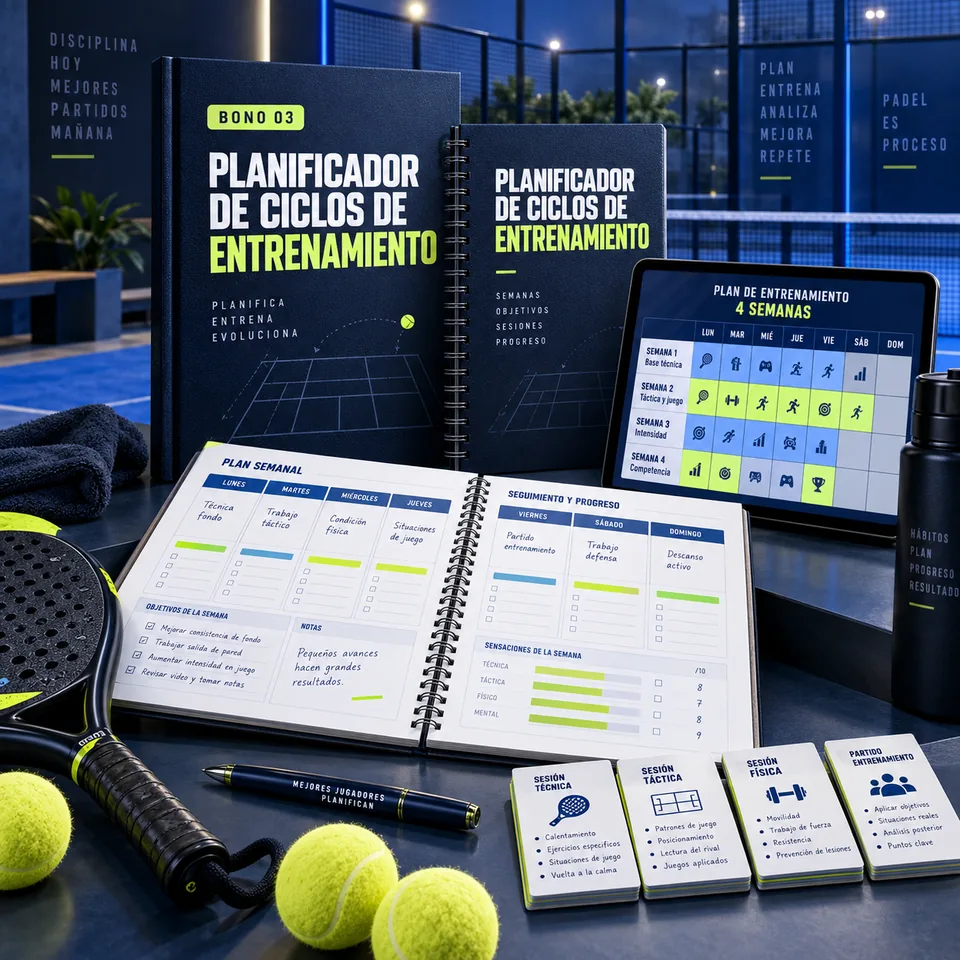
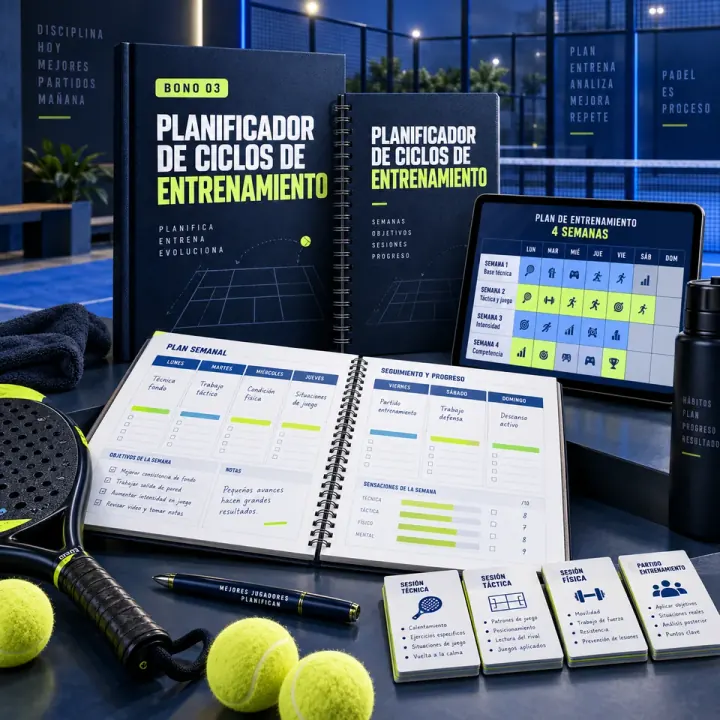
Optimize Padel page performance and remove unused assets
Recompress and resize the 11 images actually used by the Padel
landing page (47% smaller, 1.34MB -> 714KB total) and sync their
width/height attributes to the new dimensions. Remove ~65 unused
image files left over from other pages (Jiu-Jitsu, testimonials,
video library, PNG duplicates of the webp assets already in use),
cutting src/assets down to only what index.tsx and __root.tsx
import.

diff --git a/src/routes/index.tsx b/src/routes/index.tsx
@@ -139,8 +139,8 @@ function Hero() {
             <img
               src={heroPadel}
               alt="Biblioteca completa de sesiones de entrenamiento de pádel en formato digital"
-              width={1448}
-              height={1086}
+              width={1440}
+              height={1080}
               fetchPriority="high"
               decoding="async"
               className="h-auto w-full"
@@ -176,43 +176,43 @@ const SESSIONS = [
     category: "Sesión 024 · Iniciación",
     title: "Control y profundidad desde el fondo",
     image: session024,
-    width: 960,
-    height: 640,
+    width: 800,
+    height: 533,
   },
   {
     category: "Sesión 087 · Intermedio",
     title: "Defensa de pared y recuperación",
     image: session087,
-    width: 960,
-    height: 640,
+    width: 800,
+    height: 533,
   },
   {
     category: "Sesión 146 · Intermedio",
     title: "Transición desde el fondo hasta la red",
     image: session146,
-    width: 960,
-    height: 640,
+    width: 800,
+    height: 533,
   },
   {
     category: "Sesión 219 · Avanzado",
     title: "Bandeja y recuperación de la posición",
     image: session219,
-    width: 960,
-    height: 640,
+    width: 800,
+    height: 533,
   },
   {
     category: "Sesión 271 · Avanzado",
     title: "Construcción inteligente del punto en pareja",
     image: session271,
-    width: 960,
-    height: 640,
+    width: 800,
+    height: 533,
   },
   {
     category: "Sesión 308 · Todos los niveles",
     title: "Agilidad, reacción y coordinación en pista",
     image: session308,
-    width: 960,
-    height: 640,
+    width: 800,
+    height: 533,
   },
 ];
 
@@ -418,8 +418,8 @@ function Bonuses() {
                   loading="lazy"
                   decoding="async"
                   fetchPriority="low"
-                  width={960}
-                  height={960}
+                  width={720}
+                  height={720}
                   style={{ objectPosition: bonus.position }}
                   className="h-full w-full object-cover transition duration-700 group-hover:scale-105"
                 />
